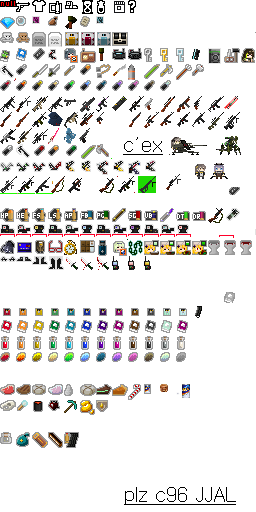
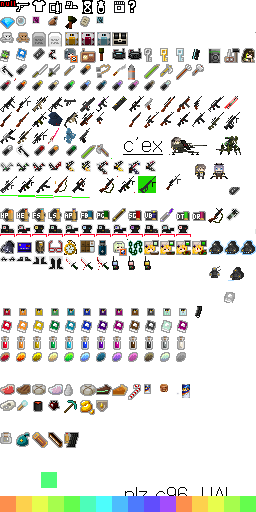
유물 이름이랑 스프라이트 변경
슈-퍼차저

Changed region(s): [[0.0, 0.9062, 1.0, 1.0], [0.0, 0.3438, 0.3438, 0.4062], [0.8125, 0.4688, 1.0, 0.5625]]

diff --git a/core/src/main/java/com/gfpixel/gfpixeldungeon/sprites/ItemSpriteSheet.java b/core/src/main/java/com/gfpixel/gfpixeldungeon/sprites/ItemSpriteSheet.java
@@ -409,9 +409,9 @@ public class ItemSpriteSheet {
 		assignItemRect(ARTIFACT_HORN2,      15, 15);
 		assignItemRect(ARTIFACT_HORN3,      15, 15);
 		assignItemRect(ARTIFACT_HORN4,      15, 15);
-		assignItemRect(ARTIFACT_CHALICE1,   12, 15);
-		assignItemRect(ARTIFACT_CHALICE2,   12, 15);
-		assignItemRect(ARTIFACT_CHALICE3,   12, 15);
+		assignItemRect(ARTIFACT_CHALICE1,   16, 15);
+		assignItemRect(ARTIFACT_CHALICE2,   16, 15);
+		assignItemRect(ARTIFACT_CHALICE3,   16, 15);
 		assignItemRect(ARTIFACT_SANDALS,    16, 6 );
 		assignItemRect(ARTIFACT_SHOES,      16, 6 );
 		assignItemRect(ARTIFACT_BOOTS,      16, 9 );

diff --git a/core/src/main/java/com/gfpixel/gfpixeldungeon/items/Generator.java b/core/src/main/java/com/gfpixel/gfpixeldungeon/items/Generator.java
@@ -387,7 +387,7 @@ public class Generator {
 					ThrowingHammer.class
 			};
 			MIS_T5.probs = new float[]{ 4, 3 };
-			
+
 			FOOD.classes = new Class<?>[]{
 					Food.class,
 					Maccol.class,
